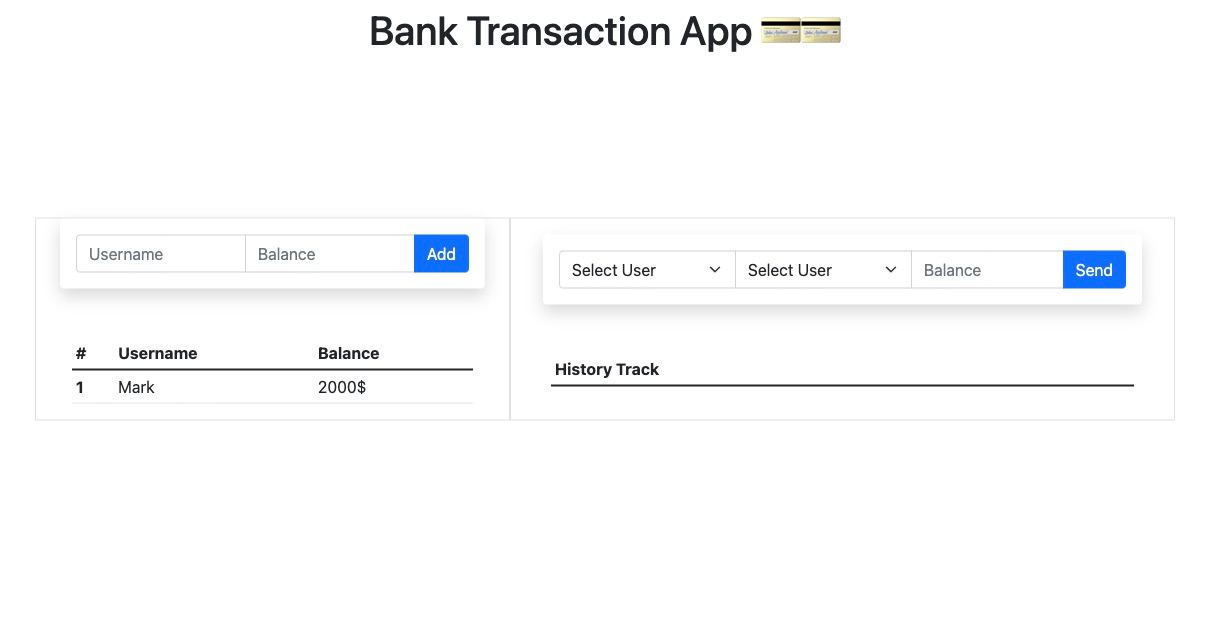
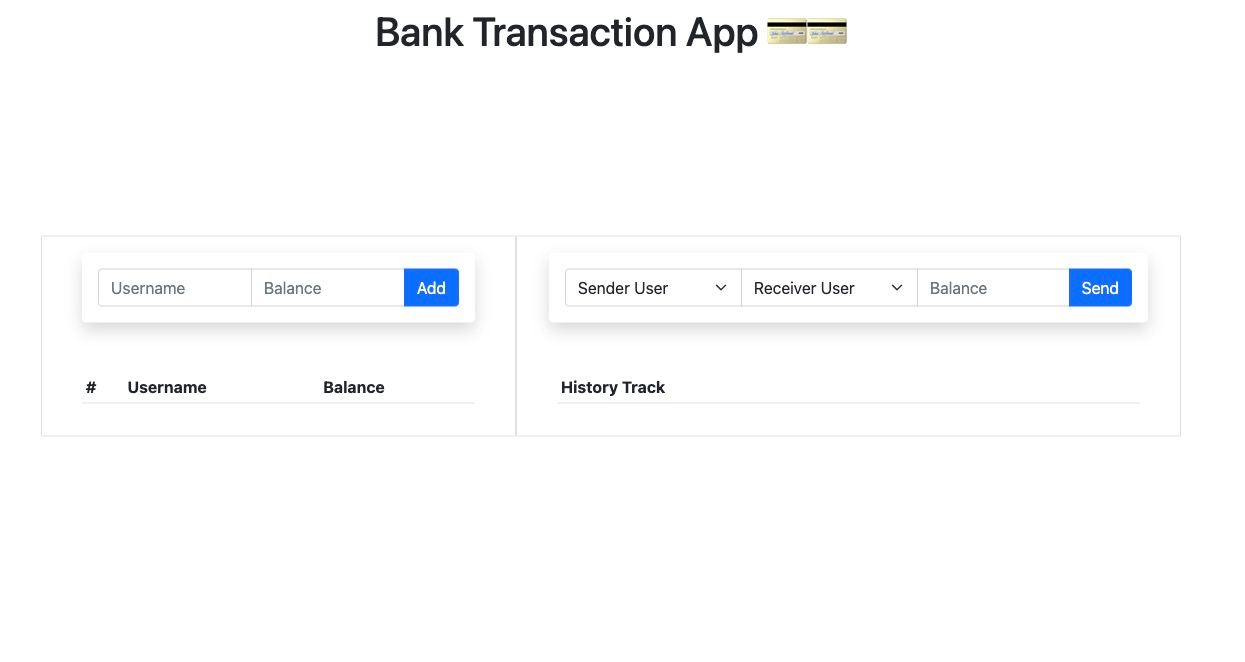
edited read me section

diff --git a/README.md b/README.md
@@ -4,3 +4,11 @@
 <p>This is a bank transaction app created using the Bootstrap and vanilla JS.</p>
 
 ![APP IMAGE](/assets/app.jpg "App Image")
+
+<h1>User add Function triggered History Table and User List Table</h1>
+
+![APP IMAGE](/assets/userAddedList.jpg "App Image")
+
+<h1>After Clicking Send Button Tranfer affecting User List Table Balances </h1>
+
+![APP IMAGE](/assets/transferred.jpg "App Image")
